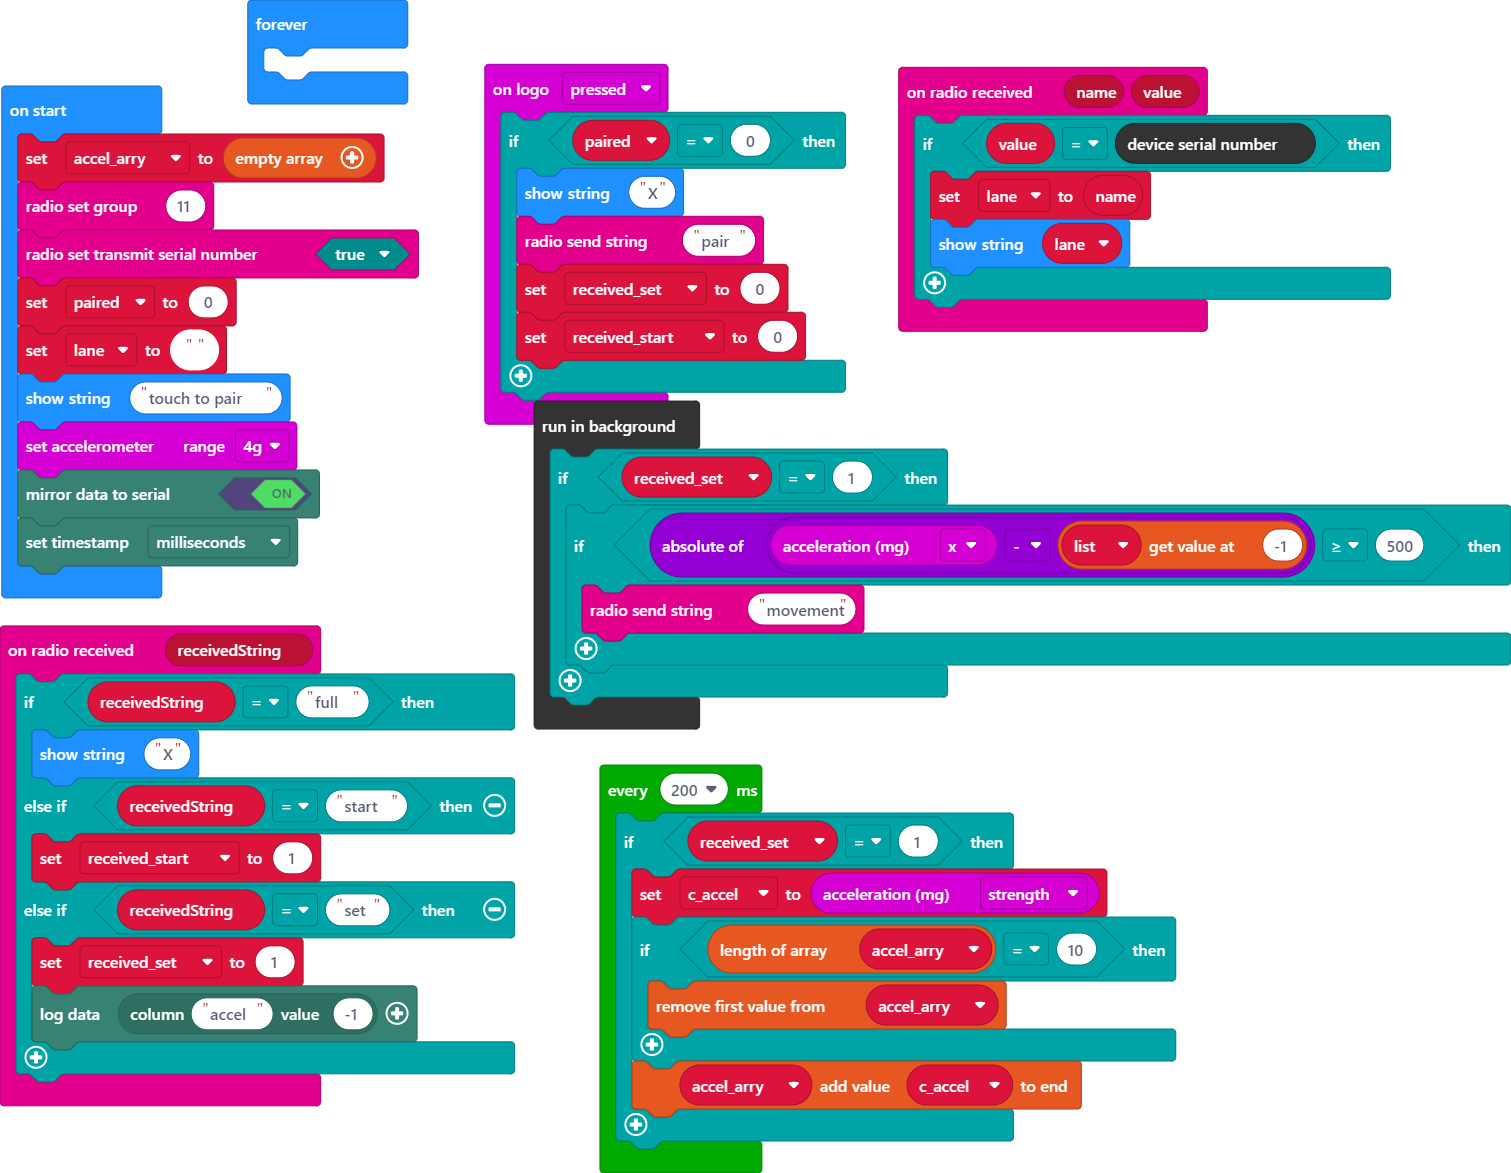
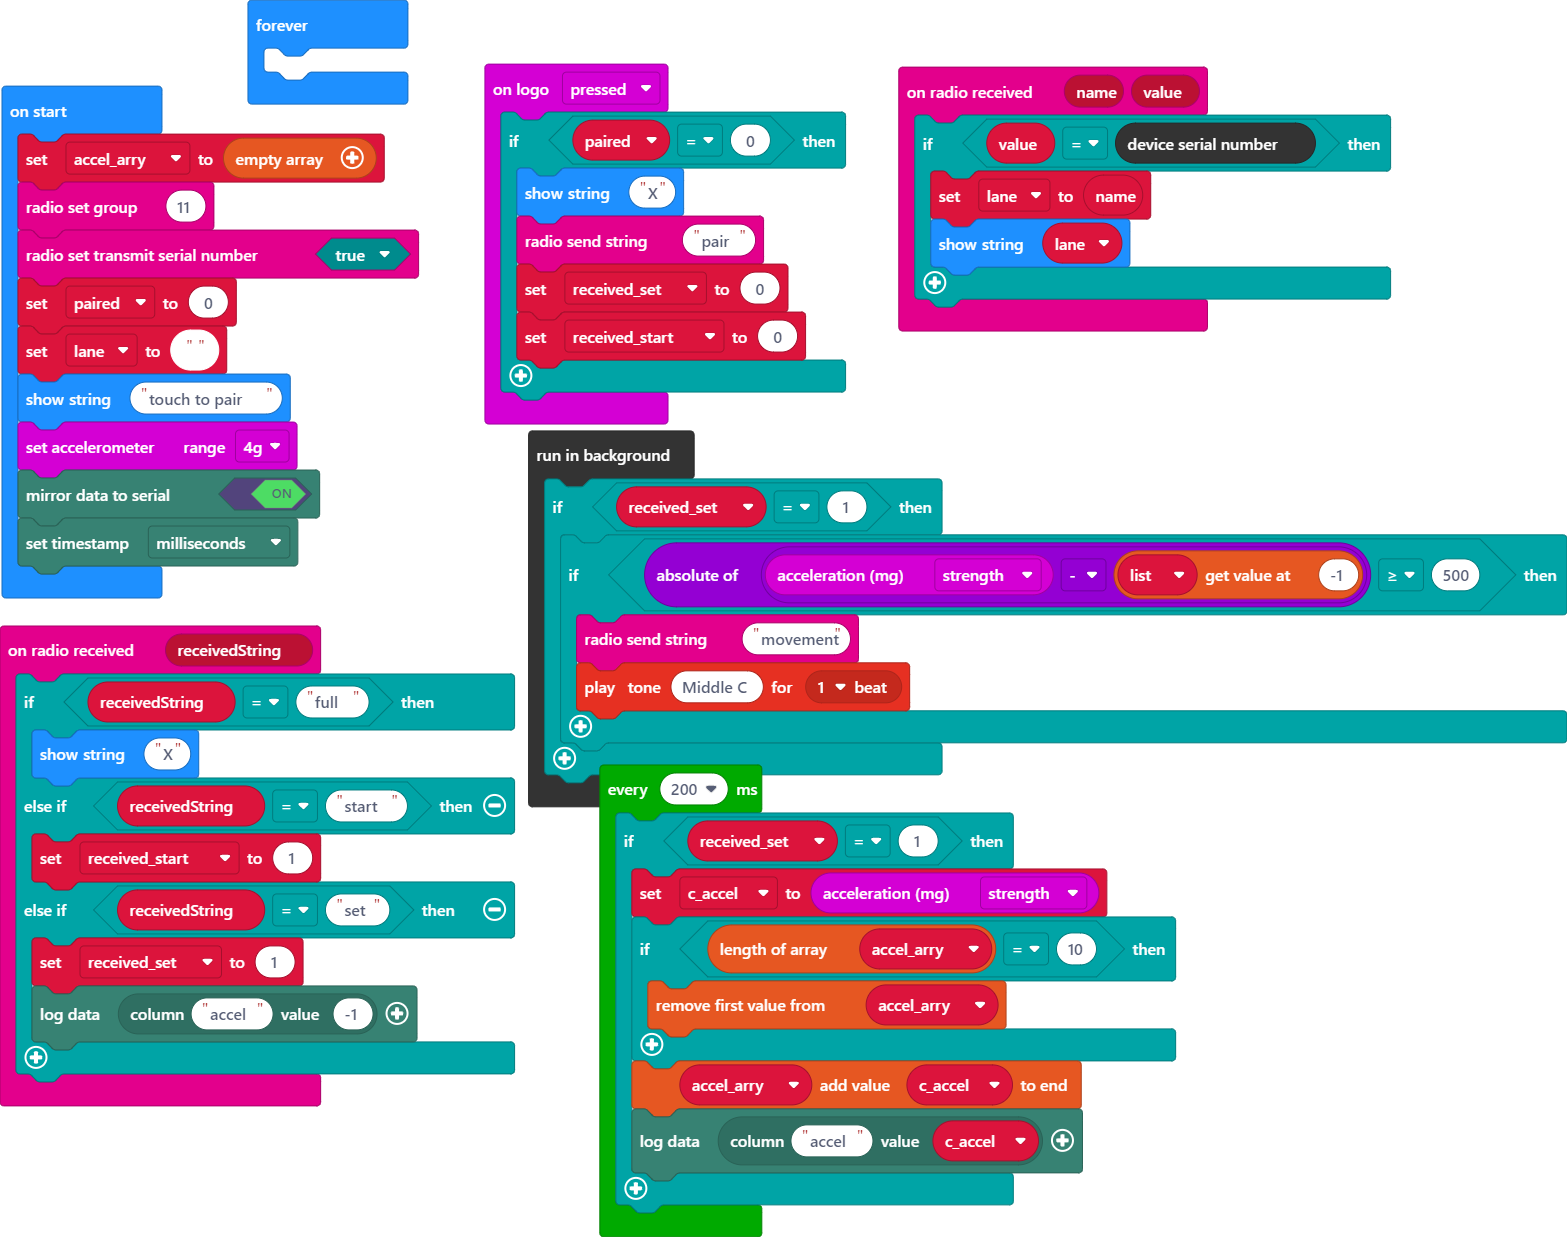
Update main.blocks, main.ts

diff --git a/main.ts b/main.ts
@@ -42,8 +42,9 @@ basic.forever(function () {
 control.inBackground(function () {
     if (received_set == 1) {
         let list: number[] = []
-        if (Math.abs(input.acceleration(Dimension.X) - list[-1]) >= 500) {
+        if (Math.abs(input.acceleration(Dimension.Strength) - list[-1]) >= 500) {
             radio.sendString("movement")
+            music.playTone(262, music.beat(BeatFraction.Whole))
         }
     }
 })
@@ -54,5 +55,6 @@ loops.everyInterval(200, function () {
             accel_arry.shift()
         }
         accel_arry.push(c_accel)
+        datalogger.log(datalogger.createCV("accel", c_accel))
     }
 })
